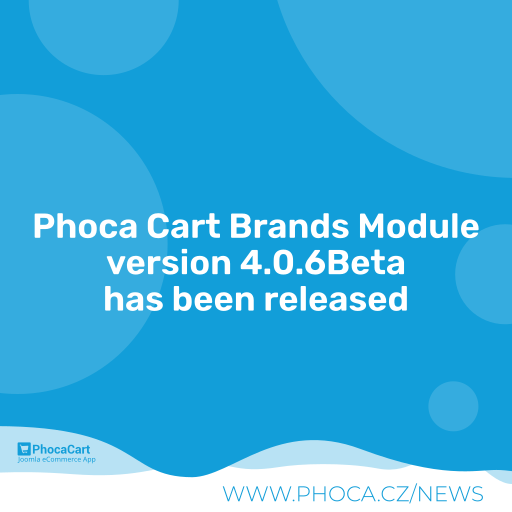
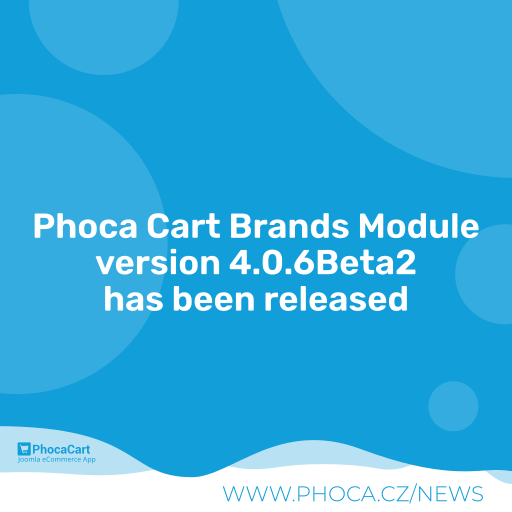
4.0.6Beta2

Changed region(s): [[0.1875, 0.4688, 0.8125, 0.5625]]

diff --git a/mod_phocacart_brands.php b/mod_phocacart_brands.php
@@ -7,20 +7,27 @@
  * @license http://www.gnu.org/copyleft/gpl.html GNU/GPL
  */
 
+use Joomla\CMS\Component\ComponentHelper;
+use Joomla\CMS\Factory;
+use Joomla\CMS\Helper\ModuleHelper;
+
 defined('_JEXEC') or die;// no direct access
 
-if (!JComponentHelper::isEnabled('com_phocacart', true)) {
-	$app = JFactory::getApplication();
+
+$app = Factory::getApplication();
+
+if (!ComponentHelper::isEnabled('com_phocacart', true)) {
 	$app->enqueueMessage(JText::_('Phoca Cart Error'), JText::_('Phoca Cart is not installed on your system'), 'error');
 	return;
 }
 
 JLoader::registerPrefix('Phocacart', JPATH_ADMINISTRATOR . '/components/com_phocacart/libraries/phocacart');
 
-$lang 		= JFactory::getLanguage();
+$lang 		= Factory::getLanguage();
 //$lang->load('com_phocacart.sys');
 $lang->load('com_phocacart');
-$document 	= JFactory::getDocument();
+$document 	= Factory::getDocument();
+$wa                         = $document->getWebAssetManager();
 
 $p 							= array();
 $p['brands_ordering']		= $params->get( 'brands_ordering', 1 );
@@ -139,7 +146,8 @@ if ($p['display_navigation'] == 1) {
 
 $sa[] = '})';
 $sa[] = ' ';
-$document->addScriptDeclaration(implode("\n", $sa));
+//$document->addScriptDeclaration(implode("\n", $sa));
+$wa->addInlineScript(implode("\n", $sa), ['version' => 'auto'], ['type' => 'module']);//, ['defer' => true]
 
 
 
@@ -155,5 +163,5 @@ if (!empty($hide_categories)) {
 }
 */
 $brands = PhocacartManufacturer::getAllManufacturers($p['brands_ordering']);
-require(JModuleHelper::getLayoutPath('mod_phocacart_brands', $params->get('layout', 'default')));
+require(ModuleHelper::getLayoutPath('mod_phocacart_brands', $params->get('layout', 'default')));
 ?>

diff --git a/README.MD b/README.MD
@@ -60,7 +60,7 @@ Phoca Cart Brands Module - a Joomla! module which displays list of manufacturers
 
 ## Version (Joomla! 4.x)
 
-4.0.6Beta
+4.0.6Beta2
 
 
 
